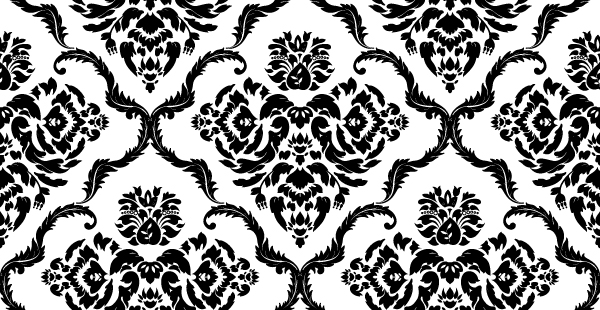
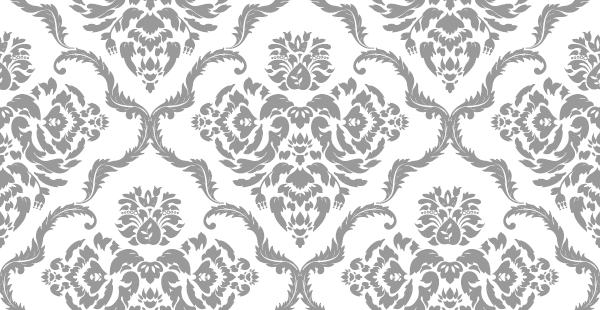
Color changes

diff --git a/views/style.scss b/views/style.scss
@@ -1,17 +1,24 @@
 @import url(http://fonts.googleapis.com/css?family=Josefin+Sans:300,600,300italic);
 @import "/css/normalize.css";
 
-// vars #440075
+// vars #191970 #440075
 
-$primary: #440075;
+$primary: #6183A6;
 $primary-dark: darken($primary, 10%);
 $main-width: 10px;
 
-@mixin border( $width ) {
-  border-width: $width;
+@mixin border {
+  border-width: $main-width;
   border-style: solid;
   border-color: $primary;
 }
+
+@mixin imgborder {
+  border-width: $main-width/2;
+  border-style: solid;
+  border-color: white;
+}
+  
 
 @mixin center {
   margin-left: auto;
@@ -34,7 +41,7 @@ body {
 
 #content {
   @include center;
-  @include border($main-width);
+  @include border;
   width: 480px;
   margin-top: 140px;
   margin-bottom: 140px;
@@ -50,7 +57,7 @@ article {
   #projects {
     text-align: center;
     img {
-      @include border($main-width/2);
+      @include imgborder;
       @include center;
       @include shadow;
     }
